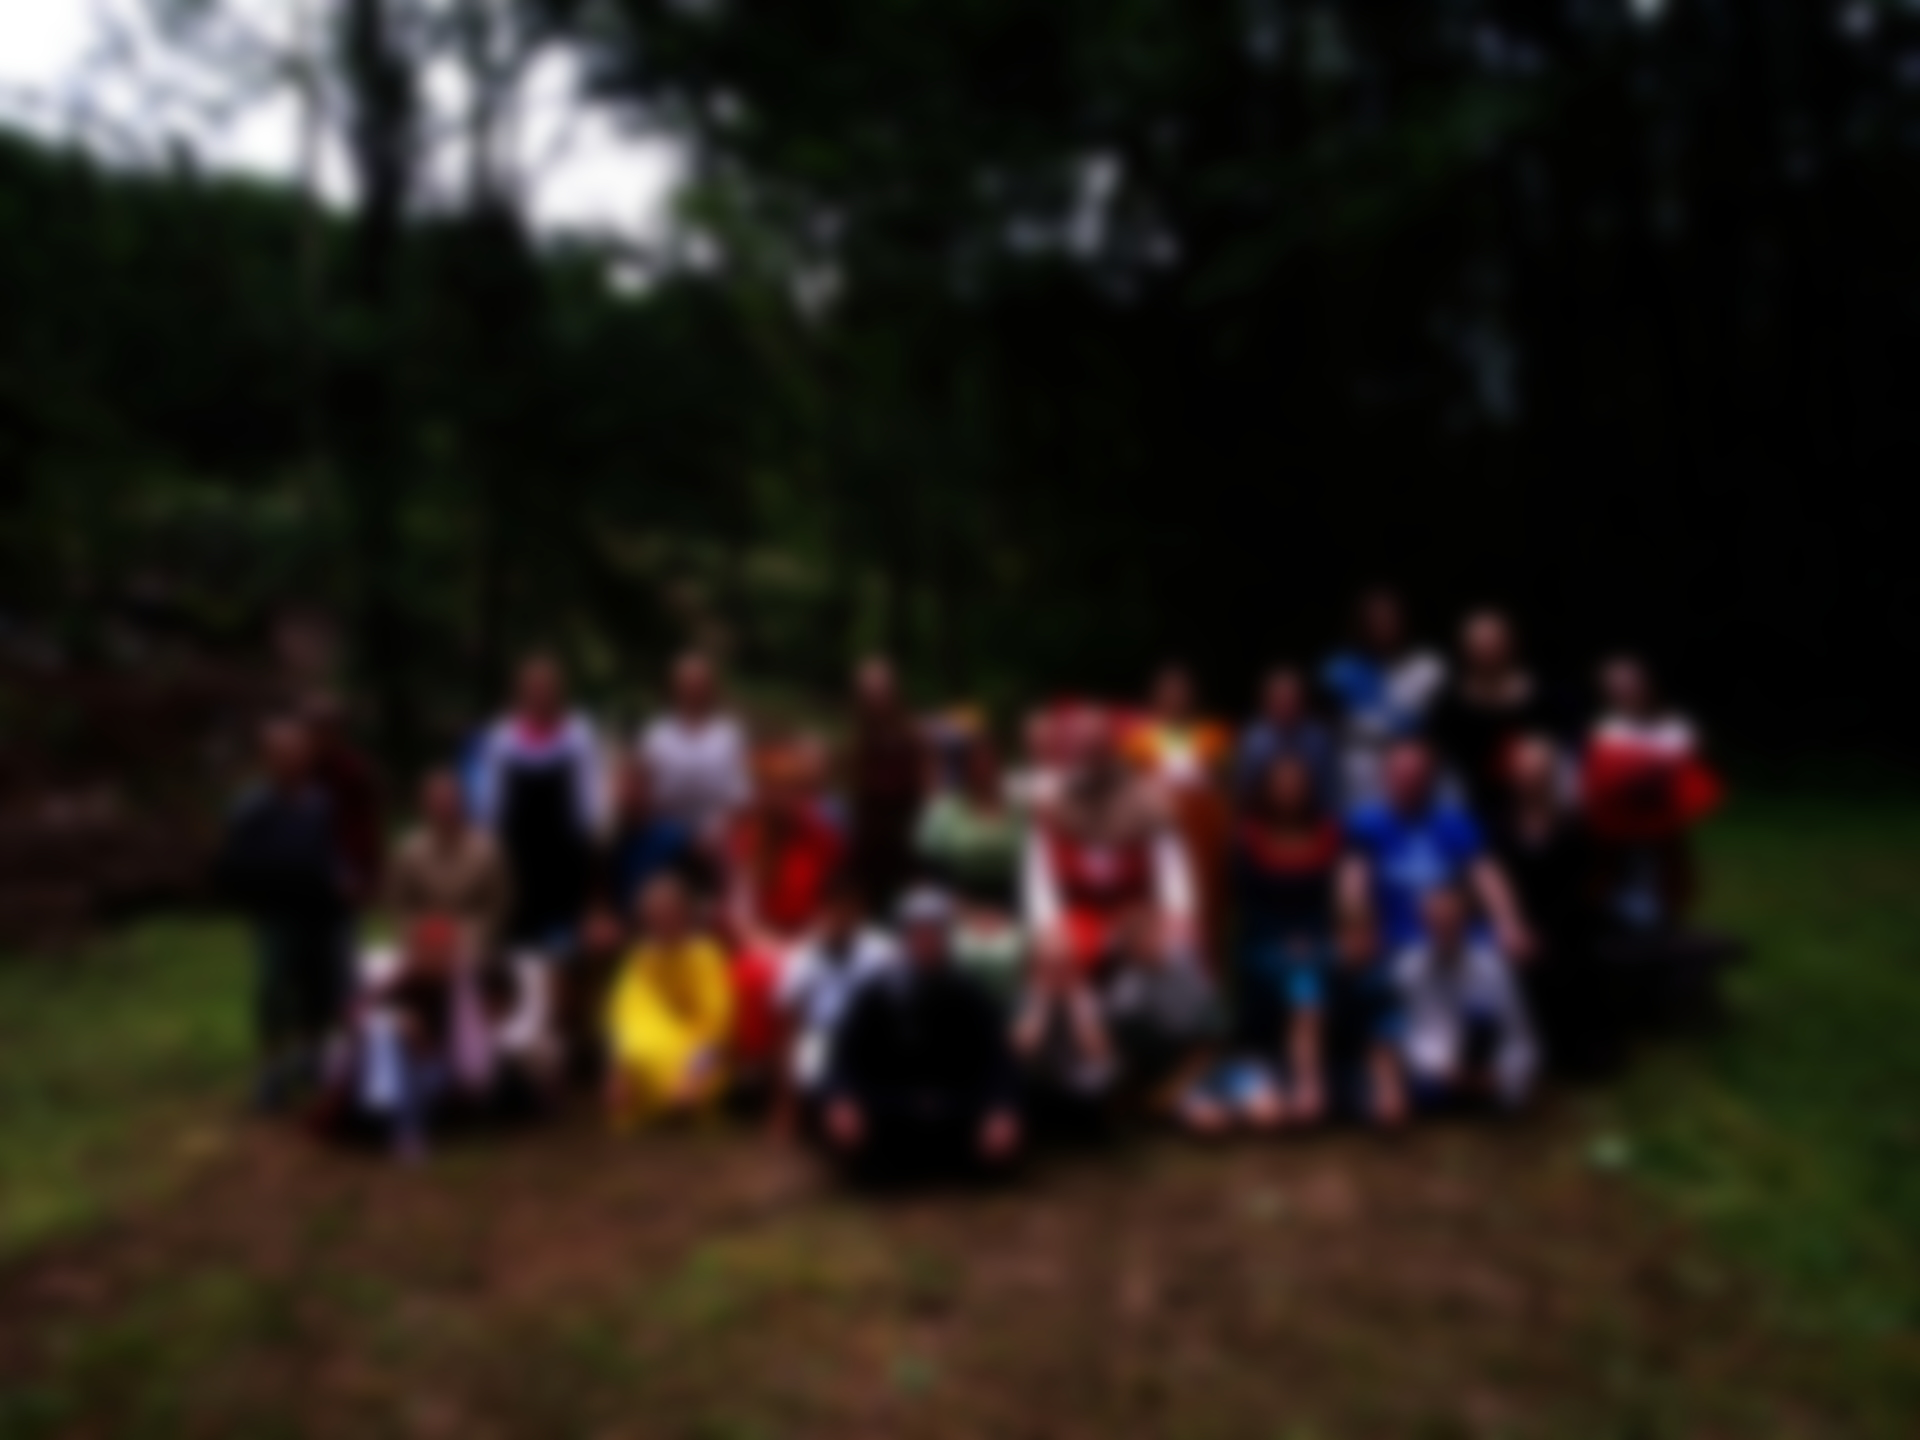
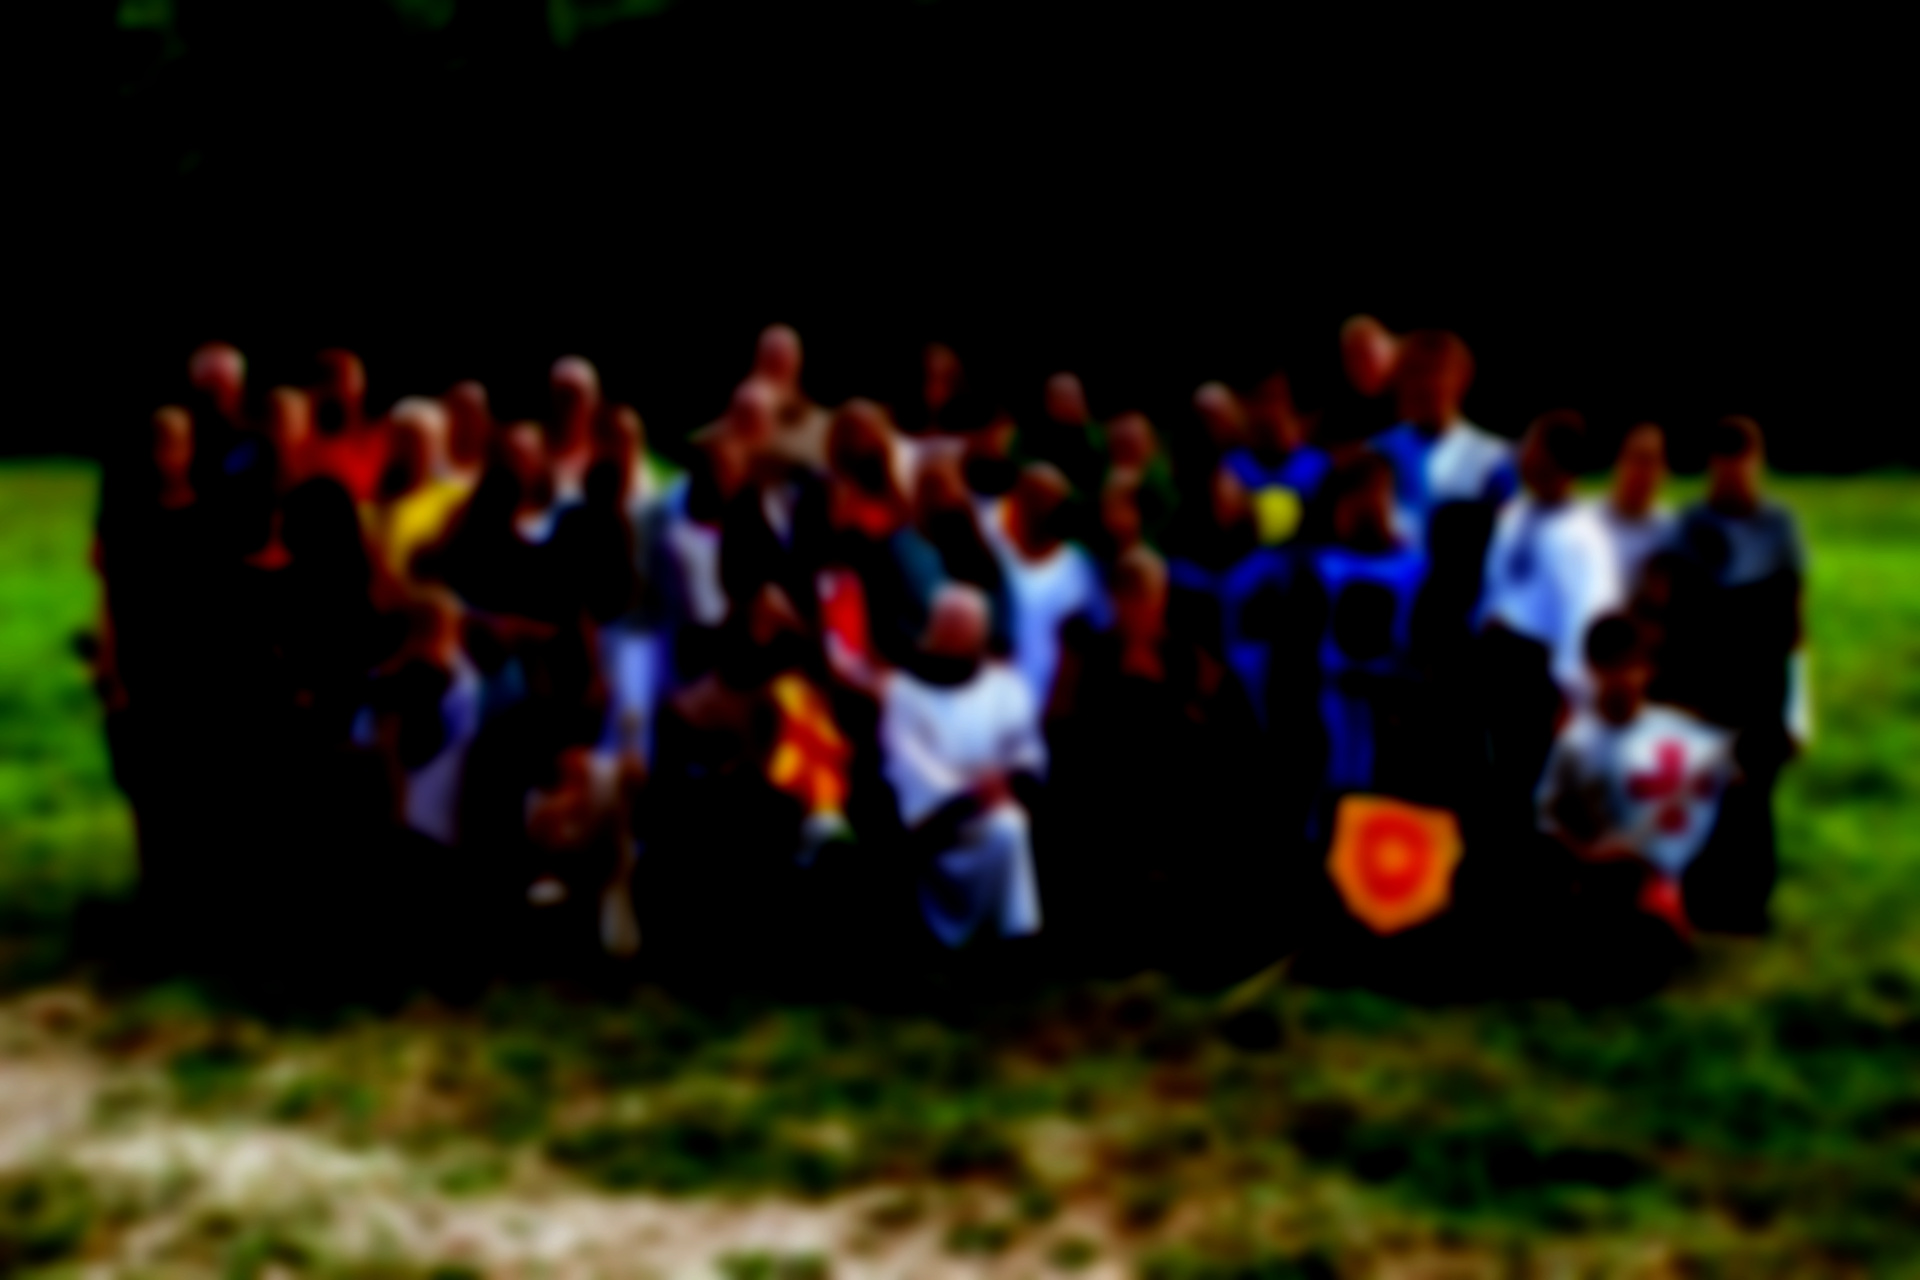
2018 afterparty

diff --git a/index.html b/index.html
@@ -17,9 +17,9 @@
     <!-- Custom Fonts -->
     <link href="vendor/font-awesome/css/font-awesome.min.css" rel="stylesheet" type="text/css">
     <link href='//fonts.googleapis.com/css?family=Open+Sans:300italic,400italic,600italic,700italic,800italic,400,300,600,700,800'
-          rel='stylesheet' type='text/css'>
+        rel='stylesheet' type='text/css'>
     <link href='//fonts.googleapis.com/css?family=Merriweather:400,300,300italic,400italic,700,700italic,900,900italic'
-          rel='stylesheet' type='text/css'>
+        rel='stylesheet' type='text/css'>
 
     <!-- Plugin CSS -->
     <link href="vendor/magnific-popup/magnific-popup.css" rel="stylesheet">
@@ -47,7 +47,7 @@
     <div class="container-fluid">
         <div class="navbar-header">
             <button type="button" class="navbar-toggle collapsed" data-toggle="collapse"
-                    data-target="#bs-example-navbar-collapse-1">
+                data-target="#bs-example-navbar-collapse-1">
                 <span class="sr-only">Navigace</span> Menu <i class="fa fa-bars"></i>
             </button>
             <a class="navbar-brand page-scroll" href="#page-top"></a>
@@ -64,9 +64,9 @@
                 <!--<li>
                     <a class="page-scroll" href="#services">Co zažiješ</a>
                 </li>-->
-                <li>
+                <!-- <li>
                     <a class="page-scroll" href="#prihlaska">Přihláška</a>
-                </li>
+                </li> -->
                 <li>
                     <a class="page-scroll" href="#kontakt">Kontakt</a>
                 </li>
@@ -75,15 +75,31 @@
     </div>
 </nav>
 
+<!--
+
+<aside class="bg-primary text-dark" id="fotky">
+    <div class="container text-center">
+        <div class="call-to-action">
+
+            <hr>
+            <p class="lead">Není na co čekat, listina rytířů do ležení se uzavírá <b>31. května</b> 2018!</p>
+        </div>
+    </div>
+</aside>
+-->
 
 <header>
     <div class="header-content">
         <div class="header-content-inner">
-            <h1 id="homeHeading">Rytířské ležení<!-- <br>Kamenný val MMXVIII--></h1>
+            <h1 id="homeHeading">Rytířské ležení <br>KAMENNÝ VAL MMXVIII<!-- <br>Kamenný val MMXVIII--></h1>
+            <a target="_blank" href="http://bit.ly/kamenny-val-mmxviii" class="btn btn-default btn-xxl">
+                Kronika s fotografiemi
+            </a>
+            <!--
             <div class="embed-responsive embed-responsive-16by9">
                 <iframe src="https://www.youtube.com/embed/aNZ_znIAIf4?rel=0&amp;controls=0&amp;showinfo=0" frameborder="0" allow="autoplay; encrypted-media" allowfullscreen></iframe>
             </div>
-            
+            -->
         </div>
     </div>
 </header>
@@ -93,18 +109,20 @@
     <div class="container">
         <div class="row">
             <div class="col-lg-8 col-lg-offset-2 text-center">
-                <h2 class="section-heading">Proč rytířský tábor?</h2>
+                <h2 class="section-heading">Jaká je naše motivace</h2>
                 <hr>
                 <p>
-                    Naší motivací a tím, co nás pohání je nejen chuť zažívat dobrodružství,
+                    Naší motivací a tím, co nás pohání, je nejen chuť zažívat dobrodružství,
                     ale také předávat dál to, co jsme na rytířském táboře sami dostali.
-                    Je to pro nás všechny srdeční záležitost a proto ji chceme předávat dál a
-                    dělat radost sobě i druhým.
-                    Jsou totiž zážitky, na které se nezapomíná a my je máme právě z těchto táborů.
+                    Je to pro nás všechny srdeční záležitost a chceme předávat dál a
+                    dělat radost sobě a především druhým.
+                    Jsou totiž zážitky, na které se nezapomíná, a my je máme právě z těchto táborů.
                 </p>
+                <!--
                 <a href="#prihlaska" class="page-scroll btn btn-default btn-xl sr-button">
                     Pojeď s námi!
                 </a>
+                -->
             </div>
         </div>
     </div>
@@ -118,7 +136,8 @@
         <div class="row">
             <div class="col-lg-4 col-md-4 text-justify">
                 <p>
-                    <strong>I. Královská rada</strong>, jež rytířskými leženími proslula, vznikla kol pána Benna z Reichensteinu. Dala
+                    <strong>I. Královská rada</strong>, jež rytířskými leženími proslula, vznikla kol pána Benna z
+                    Reichensteinu. Dala
                     vzniknout řadě z ležení. Zprávy o konání ležení mezi lidem říkaly se ústa od úst. Listy povolávací
                     jinoši a panny netrpělivě vyhlíželi, a v nejednom ustrnulo se nitro, zda poslové list povolávací
                     doručí.
@@ -126,7 +145,8 @@
             </div>
             <div class="col-lg-4 col-md-4 text-justify">
                 <p>
-                    Kročeje členů <strong>II. Královské rady</strong> poprvé potkaly se ve tvrzi haukovické L.P.2008. To panna Miloslava
+                    Kročeje členů <strong>II. Královské rady</strong> poprvé potkaly se ve tvrzi haukovické L.P.2008. To
+                    panna Miloslava
                     z Haukovic a pán Jindřich z Dubicka po poslech svolali hrstku svých přátel, by vytvořili spolek
                     udatných mužů a bohabojných žen. Osmero lidí ve společenství, ve kterém by nechyběl um k vedení
                     potřebný. Základ tvořen veterány, kteří odkaz regenta Benna ctili.
@@ -134,8 +154,11 @@
             </div>
             <div class="col-lg-4 col-md-4 text-justify">
                 <p>
-                    <strong>III. Královská rada</strong> své konání započala L.P. 2017. Rytířská ležení znovu obnovit již dlouhá léta v srdci choval Daniel ze Šternberka.
-                    I vyslal posly s přátelským pozdravením, kdež sdělil svou touhu a navracejíc se poslové dobré zprávy nesly. Nelehké nástrahy a obtíže nás však téměř přemohli, nic jsme se nezalekli a pod Kristův kříž vše uložili by ke zdárnému konci vše dopadlo. Tak stalo se.
+                    <strong>III. Královská rada</strong> své konání započala L.P. 2017. Rytířská ležení znovu obnovit
+                    již dlouhá léta v srdci choval Daniel ze Šternberka.
+                    I vyslal posly s přátelským pozdravením, kdež sdělil svou touhu a navracejíc se poslové dobré zprávy
+                    nesly. Nelehké nástrahy a obtíže nás však téměř přemohli, nic jsme se nezalekli a pod Kristův kříž
+                    vše uložili by ke zdárnému konci vše dopadlo. Tak stalo se.
                 </p>
             </div>
         </div>
@@ -146,14 +169,16 @@
         <div class="row">
             <div class="col-lg-3 col-md-3 text-justify">
                 <p class="text-faded">
-                    První rok vydali jsme se do hvozdů kol zříceného hradu <strong>Hoštejn</strong>. Překonali jsme nejednu překážku
+                    První rok vydali jsme se do hvozdů kol zříceného hradu <strong>Hoštejn</strong>. Překonali jsme
+                    nejednu překážku
                     na
                     cestě odkazu Arminova a zbroj jeho shromáždili, aby osvobozen býti mohl.
                 </p>
             </div>
             <div class="col-lg-3 col-md-3 text-justify">
                 <p class="text-faded">
-                    Druhého roku, léta páně 2009, rozbili jsme ležení v <strong>údolí, jež sýčků</strong> plno bývá. Neváhali jsme položiti
+                    Druhého roku, léta páně 2009, rozbili jsme ležení v <strong>údolí, jež sýčků</strong> plno bývá.
+                    Neváhali jsme položiti
                     oběť nejvyšší za našeho velitele a vypravili jsme se na
                     dalekou cestu. Za stopou zrádců jsme se hnali a
                     před soud královský zrádce předvedli.
@@ -168,7 +193,8 @@
             </div>
             <div class="col-lg-3 col-md-3 text-justify">
                 <p class="text-faded">
-                    Počtvrté, L.P. 2011, nás ukryl samotný velmistr templářský do tajné komendy <strong>Mezi mlýny</strong>. Hnaní
+                    Počtvrté, L.P. 2011, nás ukryl samotný velmistr templářský do tajné komendy <strong>Mezi
+                    mlýny</strong>. Hnaní
                     tmou,
                     psanci před zákony, však úkoly jsme věrně plnili a poklad nesmírné ceny do zajetí nepadnul. O
                     slavné
@@ -177,41 +203,54 @@
             </div>
         </div>
         <div class="row">
-            <div class="col-lg-4 col-md-4 text-justify">
+            <div class="col-lg-3 col-md-3 text-justify">
                 <p class="text-faded">
-                   Páté ležení rozkládalo se na břehu Středozemního moře u přístavu <strong>Haifa</strong> a za odkazem relikvie z
+                    Páté ležení rozkládalo se na břehu Středozemního moře u přístavu <strong>Haifa</strong> a za odkazem
+                    relikvie z
                     Kristova kříže udály se bitvy na moři i na pevnině. Pět let pod velením regenta Jindřicha z
                     Dubicka,
                     jakožto Pavoučka proslulého.
                 </p>
             </div>
-            <div class="col-lg-4 col-md-4 text-justify">
+            <div class="col-lg-3 col-md-3 text-justify">
                 <p class="text-faded">
                     Pošesté pak za odkazem druidským proti Catharům taktéž pozdvihli jsme štíty a vybojovali veliké
                     vítězství. To psal se rok 2013 a regentka Miloslava z Haukovic jistě vedla družinu svou.
                 </p>
             </div>
-            <div class="col-lg-4 col-md-4">
+            <div class="col-lg-3 col-md-3">
                 <p class="text-faded text-justify">
                     První rok třetího věku
-                    blízko královských vojsk ležení jsme rozbili.
-                    Bychom Královy rozkazy mohli plnit. Nuceni
-                    hordám Maurů čelit, víru svou jsme ubránili 
-                    a zrádce jenž smrt velitele zavinil, před 
-                    spravedlivý soud jsme dopravili.
+                    blízko královských vojsk ležení jsme rozbili bychom královy rozkazy mohli plnit. Nuceni
+                    hordám Maurů čelit, víru svou jsme ubránili
+                    a zrádce jenž smrt velitele zavinil, před
+                    spravedlivý soud jsme dopravili. To psal se rok 2017 a regent Daniel započal třetí věk.
+                </p>
+            </div>
+            <div class="col-lg-3 col-md-3">
+                <p class="text-faded text-justify">
+                    <!--
+                    TODO: Dan
+                    Druhý rok pod vedením regenta Daniela čekala družiníky pomoc králi Přemyslu Otakaru II. před
+                    hordou valících se Kumánů. Tři desítky udatných rytířů a šlechetných dam v ležení
+                    <strong>Kamenný Val</strong> úspěšně dopomohli Zdeslavovi při bránění Olomouce.
+                    -->
                 </p>
             </div>
         </div>
 
+        <!--
         <div class="row text-center">
             <div class="col-lg-push-4 col-md-push-4 col-lg-4 col-md-4">
                 <hr>
                 <p class="lead">
-                    Co čeká nás dále netuší nikdo, snad krom panovníků. Věz, že zbroj tvá nebude v truhlici nikdy rezivět
+                    Co čeká nás dále netuší nikdo, snad krom panovníků. Věz, že zbroj tvá nebude v truhlici nikdy
+                    rezivět
                     a do boje jistě vytáhneš až další pozdvihnou štít.
                 </p>
             </div>
         </div>
+        -->
     </div>
 </section>
 <!--
@@ -262,6 +301,7 @@
     </div>
 </section>
 -->
+<!--
 <aside class="bg-primary text-dark" id="prihlaska">
     <div class="container text-center">
         <div class="call-to-action">
@@ -275,15 +315,17 @@
         </div>
     </div>
 </aside>
+-->
 
 <section id="kontakt" class="bg-dark">
     <div class="container">
         <div class="row">
             <div class="col-lg-8 col-lg-offset-2 text-center">
-                <h2 class="section-heading">Vyšli posla!</h2>
-                <hr class="primary">
+                <!-- <h2 class="section-heading">Vyšli posla!</h2>
+                <hr class="primary"> -->
                 <p>
-                    Chceš Královskou radu ležení kontaktovat přímo? <br>Níže si vyber kontakt přímo na regenta Daniela nebo využij výhod elektronické pošty.
+                    Chceš kontaktovat Královskou radu přímo?
+                    <br>Níže si vyber kontakt přímo na regenta Daniela nebo využij výhod elektronické pošty.
                 </p>
             </div>
             <div class="col-lg-4 col-lg-offset-2 text-center">
